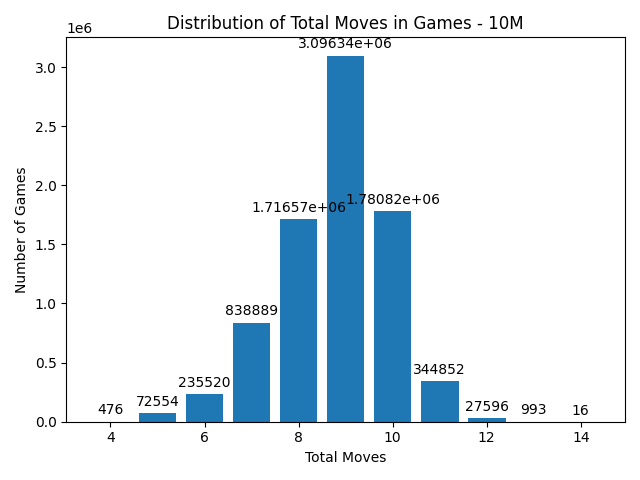
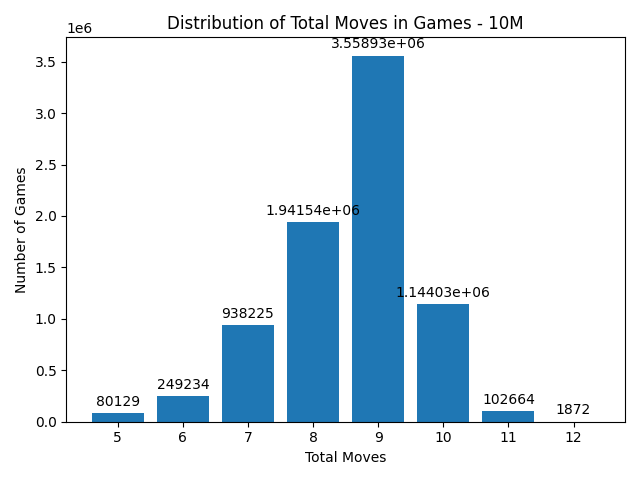
statistics work

diff --git a/qstatistics/num_steps.py b/qstatistics/num_steps.py
@@ -32,6 +32,19 @@ def main():
     keys = list(counter.keys())
     values = list(counter.values())
 
+    total_games = sum(values)
+
+    numerator = 0
+
+    for key, value in counter.items():
+        part = key * value
+        numerator += part
+
+    final_value = numerator / total_games
+
+    print(counter)
+    print(final_value)
+
     bars = plt.bar(keys, values)
     plt.xlabel('Total Moves')
     plt.ylabel('Number of Games')
@@ -40,7 +53,7 @@ def main():
 
     plt.bar_label(bars, padding=3)
     
-    plt.savefig("plots/num_steps_10M.png")
+    # plt.savefig("plots/num_steps_10M.png")
 
 
 if __name__ == "__main__":

diff --git a/qstatistics/total_wins.py b/qstatistics/total_wins.py
@@ -28,14 +28,14 @@ def main():
     bars = plt.bar(labels, wins, color=['blue', 'orange'])
     plt.xlabel('Player')
     plt.ylabel('Number of Wins')
-    plt.title('Total Wins by Player - 1M')
+    plt.title('Total Wins by Player - 10M')
     plt.tight_layout()
     plt.bar_label(bars, padding=3)
     
-    plt.savefig("plots/total_wins_1M.png")
+    plt.savefig("plots/total_wins_10M.png")
     
 if __name__ == "__main__":
     with MongoClient("mongodb://localhost:27017") as client:
         db = client["TicTacToe"]
-        collection = db["QGameResults_1M"]
+        collection = db["QGameResults_10M"]
         main()
